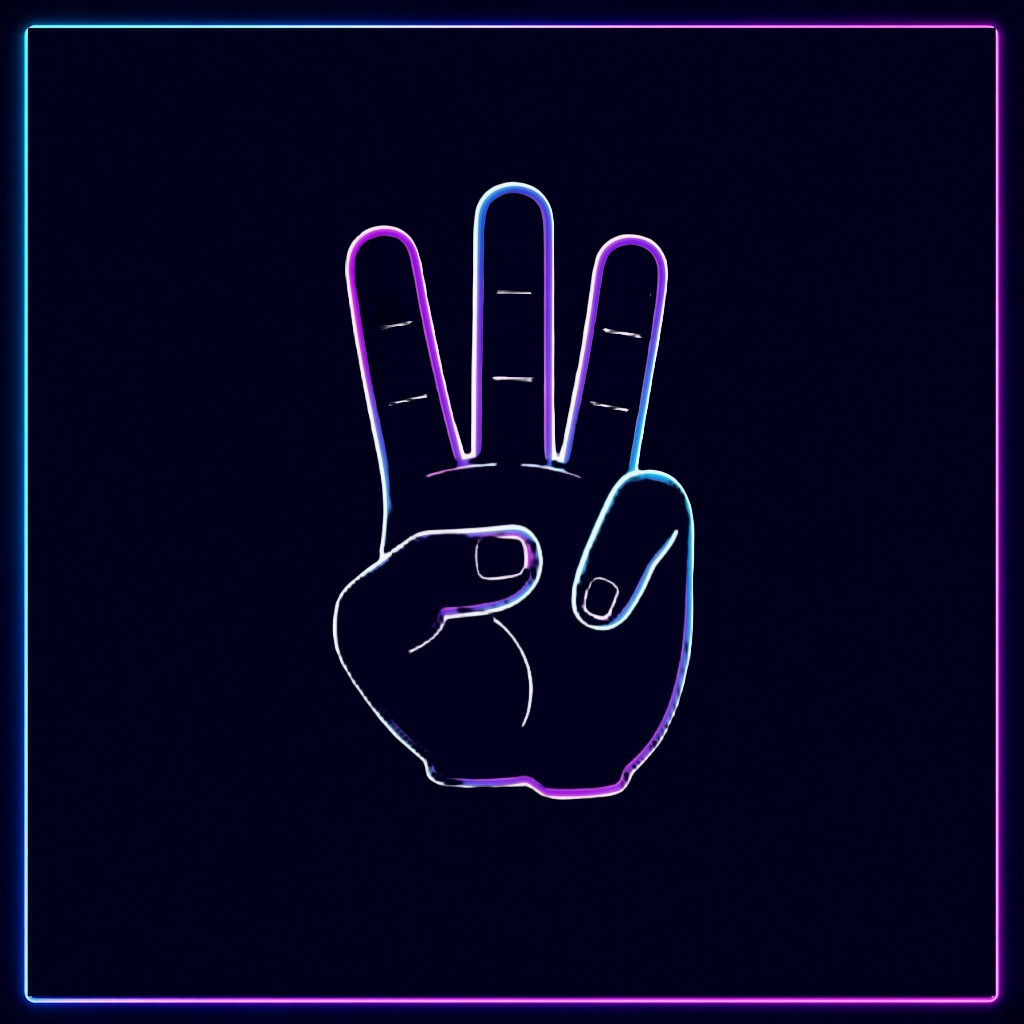
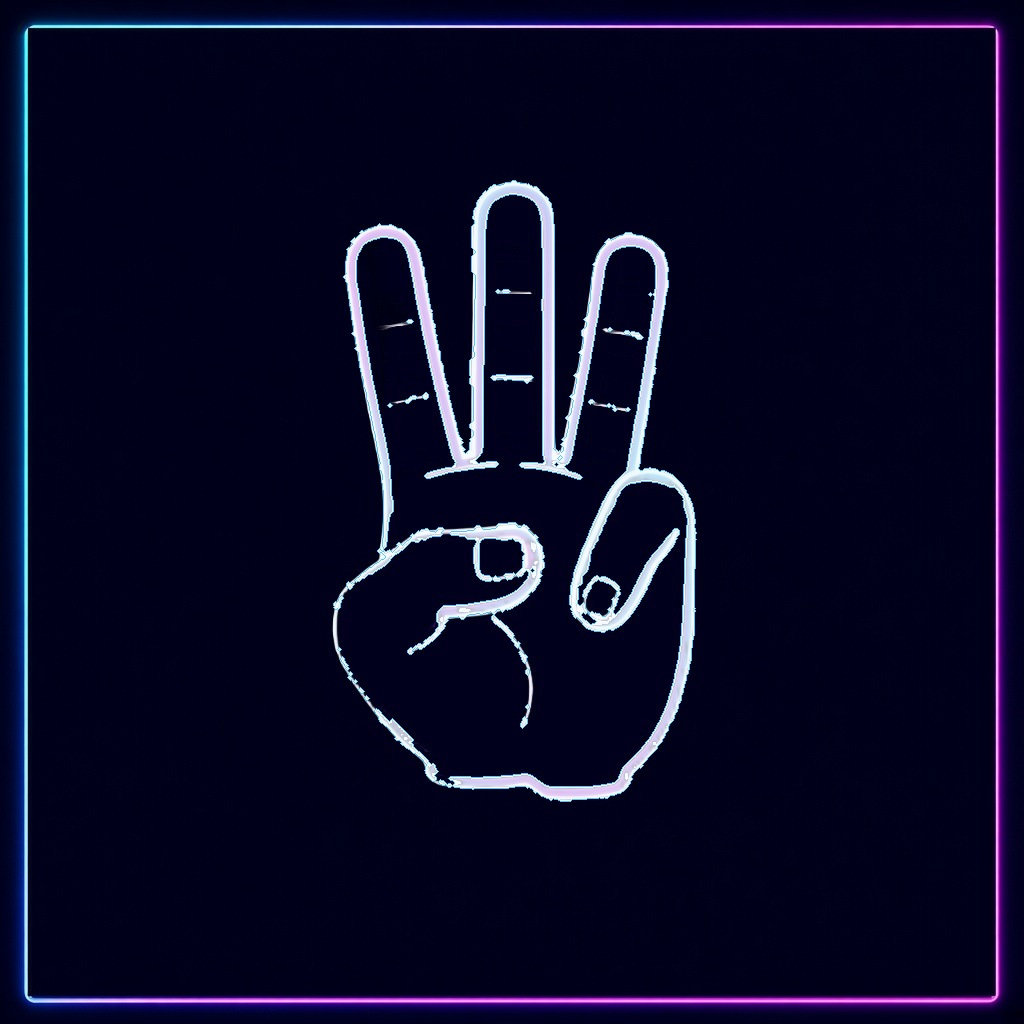
Harden neon guides, fix gift/bell occlusion, paper cover v24
Neon strokes are hard opaque and clearer than snow; gift/bell draw props
under hands with tip-at-pinch LEFT hang; paper cover regenerated via full
collage pipeline with clean solid star topper. Cache-bust VERS bumped.

Changed region(s): [[0.3125, 0.1562, 0.6875, 0.6875], [0.375, 0.6875, 0.6562, 0.7812], [0.5, 0.625, 0.5312, 0.6562]]

diff --git a/hosts/neon/src/pixelAssets.js b/hosts/neon/src/pixelAssets.js
@@ -68,13 +68,13 @@ export function loadImage(src, { scrubMagenta = false } = {}) {
 const BASE = import.meta.env.BASE_URL
 
 export const PIXEL = {
-  guideSnow: `${BASE}pixel/guide-snow.jpg?v=65`,
-  guideGift: `${BASE}pixel/guide-gift.jpg?v=65`,
-  guideBell: `${BASE}pixel/guide-bell.jpg?v=65`,
-  guideAntlers: `${BASE}pixel/guide-antlers.jpg?v=65`,
-  guideHat: `${BASE}pixel/guide-hat.jpg?v=65`,
-  guideNext: `${BASE}pixel/guide-next.jpg?v=65`,
-  guideTree: `${BASE}pixel/guide-tree.jpg?v=65`,
+  guideSnow: `${BASE}pixel/guide-snow.jpg?v=66`,
+  guideGift: `${BASE}pixel/guide-gift.jpg?v=66`,
+  guideBell: `${BASE}pixel/guide-bell.jpg?v=66`,
+  guideAntlers: `${BASE}pixel/guide-antlers.jpg?v=66`,
+  guideHat: `${BASE}pixel/guide-hat.jpg?v=66`,
+  guideNext: `${BASE}pixel/guide-next.jpg?v=66`,
+  guideTree: `${BASE}pixel/guide-tree.jpg?v=66`,
   santaHat: `${BASE}pixel/santa-hat.png?v=3`,
   antlers: `${BASE}pixel/antlers.png?v=2`,
   gift: `${BASE}pixel/gift.png?v=52`,

diff --git a/hosts/paper/src/pixelAssets.js b/hosts/paper/src/pixelAssets.js
@@ -68,13 +68,13 @@ export function loadImage(src, { scrubMagenta = false } = {}) {
 const BASE = import.meta.env.BASE_URL
 
 export const PIXEL = {
-  guideSnow: `${BASE}pixel/guide-snow.jpg?v=65`,
-  guideGift: `${BASE}pixel/guide-gift.jpg?v=65`,
-  guideBell: `${BASE}pixel/guide-bell.jpg?v=65`,
-  guideAntlers: `${BASE}pixel/guide-antlers.jpg?v=65`,
-  guideHat: `${BASE}pixel/guide-hat.jpg?v=65`,
-  guideNext: `${BASE}pixel/guide-next.jpg?v=65`,
-  guideTree: `${BASE}pixel/guide-tree.jpg?v=65`,
+  guideSnow: `${BASE}pixel/guide-snow.jpg?v=66`,
+  guideGift: `${BASE}pixel/guide-gift.jpg?v=66`,
+  guideBell: `${BASE}pixel/guide-bell.jpg?v=66`,
+  guideAntlers: `${BASE}pixel/guide-antlers.jpg?v=66`,
+  guideHat: `${BASE}pixel/guide-hat.jpg?v=66`,
+  guideNext: `${BASE}pixel/guide-next.jpg?v=66`,
+  guideTree: `${BASE}pixel/guide-tree.jpg?v=66`,
   santaHat: `${BASE}pixel/santa-hat.png?v=3`,
   antlers: `${BASE}pixel/antlers.png?v=2`,
   gift: `${BASE}pixel/gift.png?v=52`,

diff --git a/hosts/pixel/src/pixelAssets.js b/hosts/pixel/src/pixelAssets.js
@@ -68,13 +68,13 @@ export function loadImage(src, { scrubMagenta = false } = {}) {
 const BASE = import.meta.env.BASE_URL
 
 export const PIXEL = {
-  guideSnow: `${BASE}pixel/guide-snow.jpg?v=65`,
-  guideGift: `${BASE}pixel/guide-gift.jpg?v=65`,
-  guideBell: `${BASE}pixel/guide-bell.jpg?v=65`,
-  guideAntlers: `${BASE}pixel/guide-antlers.jpg?v=65`,
-  guideHat: `${BASE}pixel/guide-hat.jpg?v=65`,
-  guideNext: `${BASE}pixel/guide-next.jpg?v=65`,
-  guideTree: `${BASE}pixel/guide-tree.jpg?v=65`,
+  guideSnow: `${BASE}pixel/guide-snow.jpg?v=66`,
+  guideGift: `${BASE}pixel/guide-gift.jpg?v=66`,
+  guideBell: `${BASE}pixel/guide-bell.jpg?v=66`,
+  guideAntlers: `${BASE}pixel/guide-antlers.jpg?v=66`,
+  guideHat: `${BASE}pixel/guide-hat.jpg?v=66`,
+  guideNext: `${BASE}pixel/guide-next.jpg?v=66`,
+  guideTree: `${BASE}pixel/guide-tree.jpg?v=66`,
   santaHat: `${BASE}pixel/santa-hat.png?v=3`,
   antlers: `${BASE}pixel/antlers.png?v=2`,
   gift: `${BASE}pixel/gift.png?v=52`,

diff --git a/hosts/vintage/src/pixelAssets.js b/hosts/vintage/src/pixelAssets.js
@@ -68,13 +68,13 @@ export function loadImage(src, { scrubMagenta = false } = {}) {
 const BASE = import.meta.env.BASE_URL
 
 export const PIXEL = {
-  guideSnow: `${BASE}pixel/guide-snow.jpg?v=65`,
-  guideGift: `${BASE}pixel/guide-gift.jpg?v=65`,
-  guideBell: `${BASE}pixel/guide-bell.jpg?v=65`,
-  guideAntlers: `${BASE}pixel/guide-antlers.jpg?v=65`,
-  guideHat: `${BASE}pixel/guide-hat.jpg?v=65`,
-  guideNext: `${BASE}pixel/guide-next.jpg?v=65`,
-  guideTree: `${BASE}pixel/guide-tree.jpg?v=65`,
+  guideSnow: `${BASE}pixel/guide-snow.jpg?v=66`,
+  guideGift: `${BASE}pixel/guide-gift.jpg?v=66`,
+  guideBell: `${BASE}pixel/guide-bell.jpg?v=66`,
+  guideAntlers: `${BASE}pixel/guide-antlers.jpg?v=66`,
+  guideHat: `${BASE}pixel/guide-hat.jpg?v=66`,
+  guideNext: `${BASE}pixel/guide-next.jpg?v=66`,
+  guideTree: `${BASE}pixel/guide-tree.jpg?v=66`,
   santaHat: `${BASE}pixel/santa-hat.png?v=3`,
   antlers: `${BASE}pixel/antlers.png?v=2`,
   gift: `${BASE}pixel/gift.png?v=52`,

diff --git a/hosts/neon/src/vintageAssets.js b/hosts/neon/src/vintageAssets.js
@@ -7,13 +7,13 @@ const BASE = import.meta.env.BASE_URL
 const V = `${BASE}vintage`
 
 export const VINTAGE = {
-  guideSnow: `${V}/guide-snow.jpg?v=17`,
-  guideGift: `${V}/guide-gift.jpg?v=17`,
-  guideBell: `${V}/guide-bell.jpg?v=17`,
-  guideAntlers: `${V}/guide-antlers.jpg?v=17`,
-  guideHat: `${V}/guide-hat.jpg?v=17`,
-  guideNext: `${V}/guide-next.jpg?v=17`,
-  guideTree: `${V}/guide-tree.jpg?v=17`,
+  guideSnow: `${V}/guide-snow.jpg?v=18`,
+  guideGift: `${V}/guide-gift.jpg?v=18`,
+  guideBell: `${V}/guide-bell.jpg?v=18`,
+  guideAntlers: `${V}/guide-antlers.jpg?v=18`,
+  guideHat: `${V}/guide-hat.jpg?v=18`,
+  guideNext: `${V}/guide-next.jpg?v=18`,
+  guideTree: `${V}/guide-tree.jpg?v=18`,
   santaHat: `${V}/santa-hat.png?v=4`,
   antlers: `${V}/antlers.png?v=4`,
   gift: `${V}/gift.png?v=4`,

diff --git a/hosts/paper/src/vintageAssets.js b/hosts/paper/src/vintageAssets.js
@@ -7,13 +7,13 @@ const BASE = import.meta.env.BASE_URL
 const V = `${BASE}vintage`
 
 export const VINTAGE = {
-  guideSnow: `${V}/guide-snow.jpg?v=17`,
-  guideGift: `${V}/guide-gift.jpg?v=17`,
-  guideBell: `${V}/guide-bell.jpg?v=17`,
-  guideAntlers: `${V}/guide-antlers.jpg?v=17`,
-  guideHat: `${V}/guide-hat.jpg?v=17`,
-  guideNext: `${V}/guide-next.jpg?v=17`,
-  guideTree: `${V}/guide-tree.jpg?v=17`,
+  guideSnow: `${V}/guide-snow.jpg?v=18`,
+  guideGift: `${V}/guide-gift.jpg?v=18`,
+  guideBell: `${V}/guide-bell.jpg?v=18`,
+  guideAntlers: `${V}/guide-antlers.jpg?v=18`,
+  guideHat: `${V}/guide-hat.jpg?v=18`,
+  guideNext: `${V}/guide-next.jpg?v=18`,
+  guideTree: `${V}/guide-tree.jpg?v=18`,
   santaHat: `${V}/santa-hat.png?v=2`,
   antlers: `${V}/antlers.png?v=2`,
   gift: `${V}/gift.png?v=2`,

diff --git a/hosts/vintage/src/vintageAssets.js b/hosts/vintage/src/vintageAssets.js
@@ -5,7 +5,7 @@ import { loadImage } from './pixelAssets.js'
 
 const BASE = import.meta.env.BASE_URL
 const V = `${BASE}vintage`
-const VER = '17'
+const VER = '18'
 
 export const VINTAGE = {
   guideSnow: `${V}/guide-snow.jpg?v=${VER}`,

diff --git a/hosts/paper/src/paperAssets.js b/hosts/paper/src/paperAssets.js
@@ -5,7 +5,7 @@ import { loadImage } from './pixelAssets.js'
 
 const BASE = import.meta.env.BASE_URL
 const P = `${BASE}paper`
-const VER = '21'
+const VER = '22'
 
 export const PAPER = {
   guideSnow: `${P}/guide-snow.jpg?v=${VER}`,

diff --git a/hosts/neon/src/neonAssets.js b/hosts/neon/src/neonAssets.js
@@ -5,7 +5,7 @@ import { loadImage } from './pixelAssets.js'
 
 const BASE = import.meta.env.BASE_URL
 const N = `${BASE}neon`
-const VER = '19'
+const VER = '20'
 const FLAKE_VER = '4'
 
 export const NEON = {
